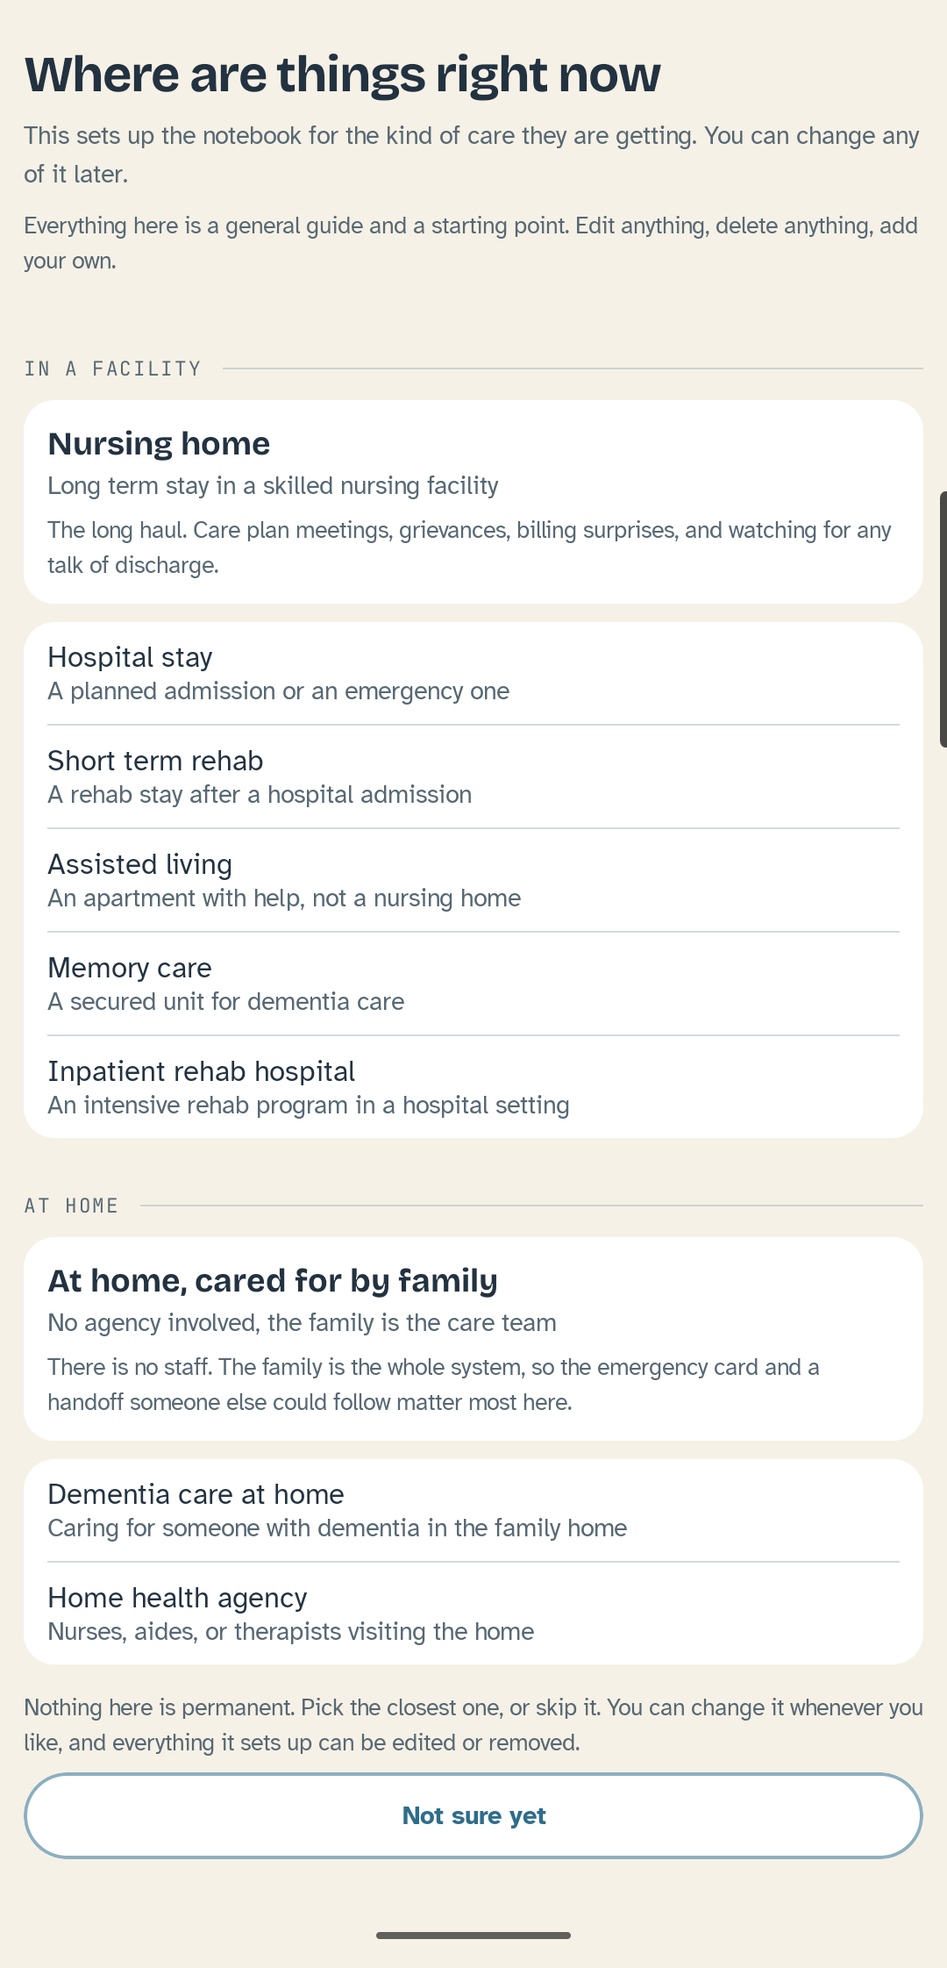
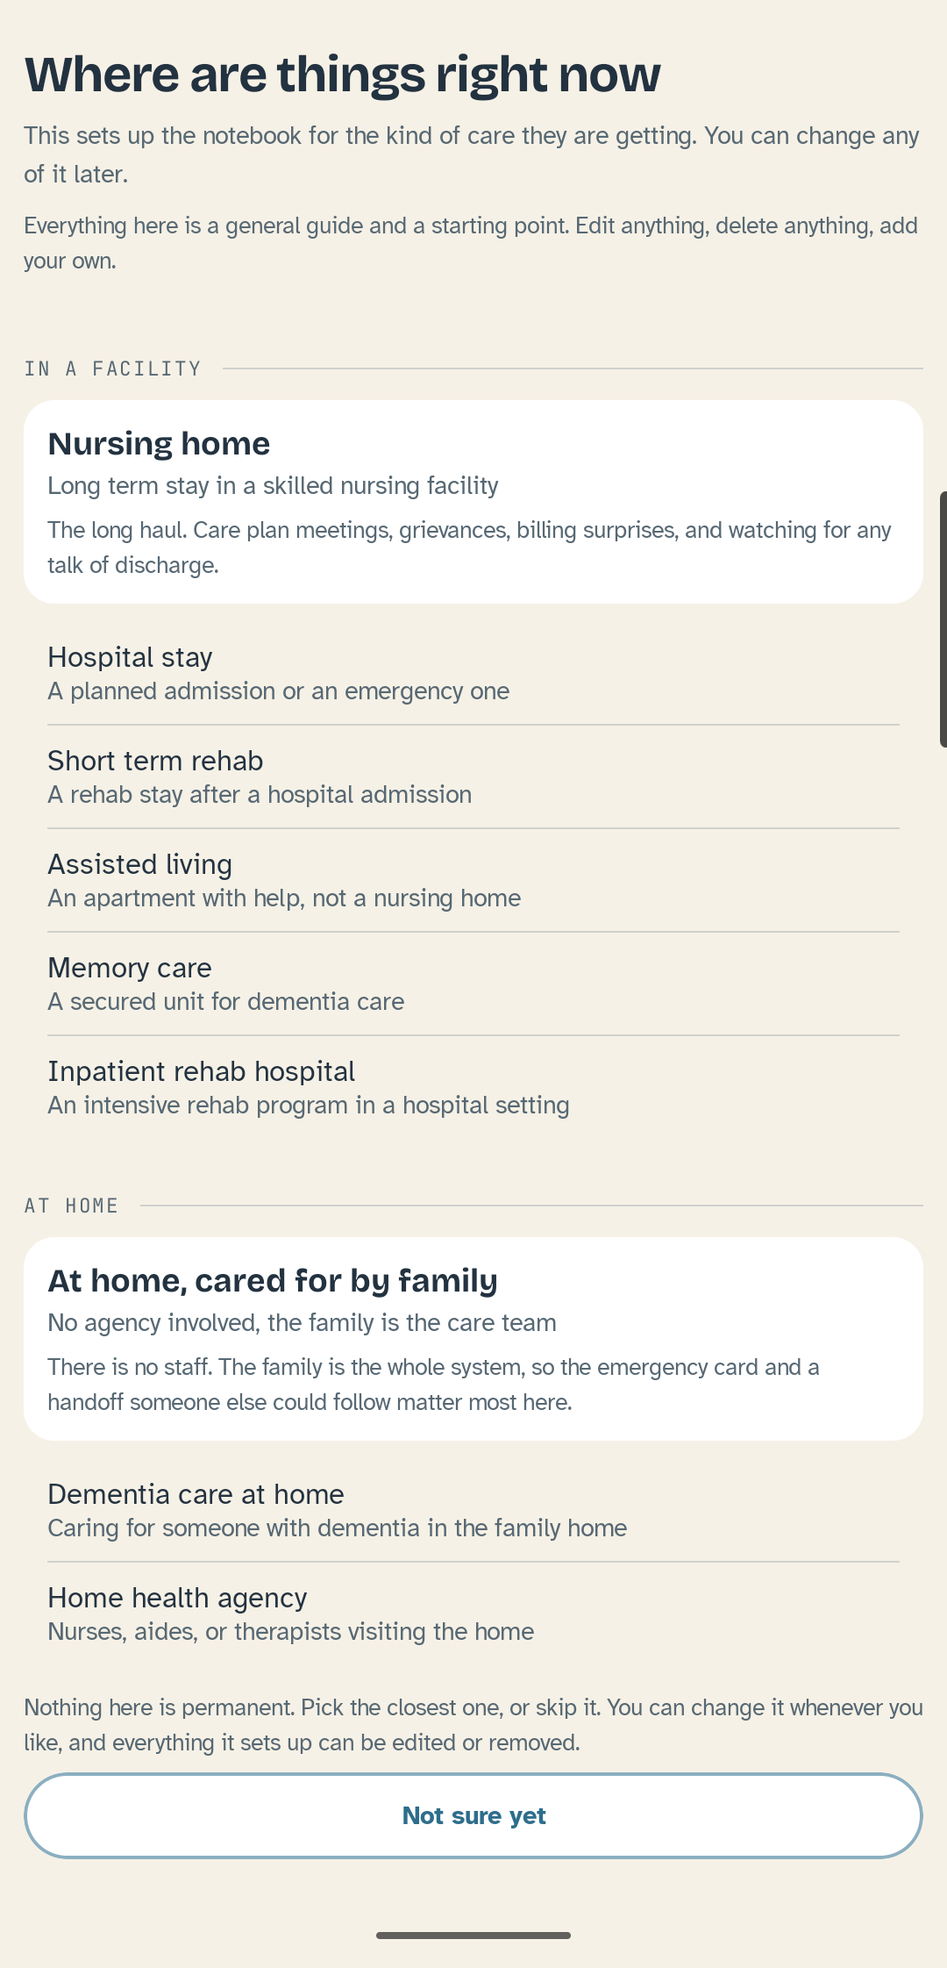
Every sentence's full stop jumped to the front of its last line in Arabic
The situation picker rendered the English catalog, which is what it is
until #62, without isolating any of it. In an Arabic layout that moves a
sentence's own punctuation to the front of the line it ends on: ".your
own" rather than "your own." on the posture line, and the same on every
burden line. Section 15's rule, and the exact failure it was written for.
#226's worklist is the rest of this.

The rows also lost their grouped surface, which is the component's own
rule rather than a compromise: not around a list long enough to scroll,
where the rows should be full bleed so the scroll is not a slab moving
under a window. Fourteen settings is that list, and the leading card
reads better floating above rows than above a second block.

That change also restored one lazy item per setting, which is what the
picker's own test needs to reach all fourteen by key. Batching a group
into one item took those keys away and broke two tests. The trap is
written down in HANDOFF section 10 and was walked into anyway.

MoveToChapterTest asserts both sides of the boundary: exactly one place
is current after a move, an already ended stay keeps the date somebody
gave it, and nothing filed against the old place is touched, which is the
promise #202 makes in its own words and the reason anybody is willing to
press the button. 332 tests pass, up from 325.

Reviews at #241 and #242 with the device screenshots.

diff --git a/android/app/src/main/kotlin/com/kamsiob/healthtrail/ui/screens/SituationPickerScreen.kt b/android/app/src/main/kotlin/com/kamsiob/healthtrail/ui/screens/SituationPickerScreen.kt
@@ -29,10 +29,10 @@ import androidx.compose.ui.platform.testTag
 import androidx.compose.ui.unit.dp
 import androidx.compose.ui.semantics.Role
 import com.kamsiob.healthtrail.data.TemplateCatalog
+import com.kamsiob.healthtrail.i18n.Bidi
 import com.kamsiob.healthtrail.i18n.LocalStrings
 import com.kamsiob.healthtrail.ui.components.DenseRow
 import com.kamsiob.healthtrail.ui.components.GroupHeader
-import com.kamsiob.healthtrail.ui.components.GroupedSurface
 import com.kamsiob.healthtrail.ui.components.TextAction
 import com.kamsiob.healthtrail.ui.components.focusRingAlpha
 import com.kamsiob.healthtrail.ui.components.pressedSurface
@@ -140,8 +140,13 @@ fun SituationPickerScreen(
             if (situations.posture.generalGuide.isNotBlank()) {
                 Spacer(Modifier.height(Space.sm))
                 // Verbatim from the catalog. Not paraphrased, not shortened.
+                // **Isolated, because the catalog is English until #62 and this
+                // is an Arabic layout.** Without it the sentence's own full
+                // stop is moved to the front of its last line: ".your own"
+                // rather than "your own.". Section 15, and it is the exact
+                // failure that rule was written for.
                 Text(
-                    text = situations.posture.generalGuide,
+                    text = Bidi.isolate(situations.posture.generalGuide),
                     style = HealthTrail.type.bodyS,
                     color = colors.ink2,
                 )
@@ -177,25 +182,36 @@ fun SituationPickerScreen(
                     // only the leading one carries a third line worth reading.
                     // The hierarchy inside each group survives, and it is now
                     // carried by shape rather than by length alone.
-                    item(key = "lead_$id") {
+                    item(key = inGroup.first().id) {
                         SituationCard(
                             situation = inGroup.first(),
                             onClick = { onChoose(inGroup.first()) },
                         )
                         Spacer(Modifier.height(Space.cardGap))
                     }
+                    // **One lazy item per setting, and no surface around the
+                    // run.** `GroupedSurface`'s own rule: not around a list long
+                    // enough to scroll, where the rows should be full bleed with
+                    // hairlines so the scroll is not a slab moving under a
+                    // window. Fourteen settings is that list.
+                    //
+                    // **It is also what makes every one of them reachable.** The
+                    // test scrolls this list by each setting's own id, which is
+                    // the only reliable way to reach a lazy row, and batching a
+                    // group into one item took those keys away. The trap is
+                    // documented in `HANDOFF.md` and it was walked into anyway.
                     val rest = inGroup.drop(1)
+                    rest.forEachIndexed { index, situation ->
+                        item(key = situation.id) {
+                            SituationRow(
+                                situation = situation,
+                                divider = index < rest.lastIndex,
+                                onClick = { onChoose(situation) },
+                            )
+                        }
+                    }
                     if (rest.isNotEmpty()) {
-                        item(key = "rest_$id") {
-                            GroupedSurface {
-                                rest.forEachIndexed { index, situation ->
-                                    SituationRow(
-                                        situation = situation,
-                                        divider = index < rest.lastIndex,
-                                        onClick = { onChoose(situation) },
-                                    )
-                                }
-                            }
+                        item(key = "rest_gap_$id") {
                             Spacer(Modifier.height(Space.cardGap))
                         }
                     }
@@ -210,17 +226,14 @@ fun SituationPickerScreen(
                 }.sortedBy { it.phase }
                 if (ungrouped.isNotEmpty()) {
                     item(key = "ungrouped_gap") { Spacer(Modifier.height(Space.sectionGap)) }
-                    item(key = "ungrouped") {
-                        GroupedSurface {
-                            ungrouped.forEachIndexed { index, situation ->
-                                SituationRow(
-                                    situation = situation,
-                                    divider = index < ungrouped.lastIndex,
-                                    onClick = { onChoose(situation) },
-                                )
-                            }
+                    ungrouped.forEachIndexed { index, situation ->
+                        item(key = situation.id) {
+                            SituationRow(
+                                situation = situation,
+                                divider = index < ungrouped.lastIndex,
+                                onClick = { onChoose(situation) },
+                            )
                         }
-                        Spacer(Modifier.height(Space.cardGap))
                     }
                 }
 
@@ -277,8 +290,8 @@ private fun SituationRow(
     onClick: () -> Unit,
 ) {
     DenseRow(
-        title = situation.name,
-        subtitle = situation.subtitle.takeIf { it.isNotBlank() },
+        title = Bidi.isolate(situation.name),
+        subtitle = situation.subtitle.takeIf { it.isNotBlank() }?.let { Bidi.isolate(it) },
         subtitleMaxLines = Int.MAX_VALUE,
         divider = divider,
         onClick = onClick,
@@ -338,14 +351,14 @@ private fun SituationCard(
             .padding(Space.cardPadding),
     ) {
         Text(
-            text = situation.name,
+            text = Bidi.isolate(situation.name),
             style = HealthTrail.type.displayS,
             color = colors.ink,
         )
         if (situation.subtitle.isNotBlank()) {
             Spacer(Modifier.height(Space.xs))
             Text(
-                text = situation.subtitle,
+                text = Bidi.isolate(situation.subtitle),
                 style = HealthTrail.type.bodyM,
                 color = colors.ink2,
             )
@@ -353,7 +366,7 @@ private fun SituationCard(
         if (situation.burden.isNotBlank() && situation.phase == MOST_COMMON) {
             Spacer(Modifier.height(Space.s))
             Text(
-                text = situation.burden,
+                text = Bidi.isolate(situation.burden),
                 style = HealthTrail.type.bodyS,
                 color = colors.ink2,
             )

diff --git a/android/app/src/androidTest/kotlin/com/kamsiob/healthtrail/data/MoveToChapterTest.kt b/android/app/src/androidTest/kotlin/com/kamsiob/healthtrail/data/MoveToChapterTest.kt
@@ -1,0 +1,118 @@
+package com.kamsiob.healthtrail.data
+
+import androidx.test.ext.junit.runners.AndroidJUnit4
+import androidx.test.platform.app.InstrumentationRegistry
+import java.time.LocalDate
+import kotlinx.coroutines.runBlocking
+import org.junit.After
+import org.junit.Assert.assertEquals
+import org.junit.Assert.assertTrue
+import org.junit.Before
+import org.junit.Test
+import org.junit.runner.RunWith
+
+/**
+ * A change of situation is a chapter boundary, and a boundary has two sides.
+ *
+ * **Starting a place without ending the one before it is the defect this
+ * exists for.** A chapter is current because it has no end date, so a second
+ * one left the chapters screen showing two places somebody was in at once,
+ * under a heading that says "where they are now". Seen on the phone.
+ *
+ * **And the other half: nothing is destroyed.** #202 promises it in those
+ * words, so it is asserted rather than trusted, because the promise is the
+ * reason somebody is willing to press the button at all.
+ */
+@RunWith(AndroidJUnit4::class)
+class MoveToChapterTest {
+
+    private val context get() = InstrumentationRegistry.getInstrumentation().targetContext
+    private lateinit var repository: Repository
+    private lateinit var subjectId: String
+
+    @Before
+    fun setUp() = runBlocking {
+        repository = Repository.open(context)
+        subjectId = repository.createSubject(displayName = "Move fixture", relationship = "mother")
+    }
+
+    @After
+    fun tearDown() = Repository.closeForTest()
+
+    private fun chapters() = runBlocking { repository.chapters(subjectId) }
+
+    @Test
+    fun theOldPlaceEndsAndTheNewOneBegins() = runBlocking {
+        repository.createChapter(subjectId, "Maplewood Care Center")
+        repository.moveToChapter(subjectId, "Birchwood Assisted Living")
+
+        val all = chapters()
+        assertEquals(2, all.size)
+        val current = all.filter { it.isCurrent }
+        assertEquals(
+            "exactly one place is current after a move: ${current.map { it.name }}",
+            listOf("Birchwood Assisted Living"),
+            current.map { it.name },
+        )
+    }
+
+    @Test
+    fun theOldPlaceKeepsItsNameAndItsStartDate() = runBlocking {
+        repository.createChapter(subjectId, "Maplewood Care Center")
+        val startedBefore = chapters().single().startedEdtf
+        repository.moveToChapter(subjectId, "Birchwood Assisted Living")
+
+        val old = chapters().single { it.name == "Maplewood Care Center" }
+        assertEquals("the stay was rewritten rather than closed", startedBefore, old.startedEdtf)
+        assertEquals(LocalDate.now().toString(), old.endedEdtf)
+    }
+
+    @Test
+    fun nothingFiledAgainstTheOldPlaceIsTouched() = runBlocking {
+        // The promise #202 makes in its own words, and the reason somebody is
+        // willing to press the button. Asserted rather than trusted.
+        val oldId = repository.createChapter(subjectId, "Maplewood Care Center")
+        val before = repository.chapterDetail(subjectId, oldId)
+
+        repository.moveToChapter(subjectId, "Birchwood Assisted Living")
+
+        val after = repository.chapterDetail(subjectId, oldId)
+        assertTrue("the old chapter itself was removed", after != null)
+        assertEquals(before?.entries?.size, after?.entries?.size)
+        assertEquals(before?.incidents?.size, after?.incidents?.size)
+        assertEquals(before?.documents?.size, after?.documents?.size)
+        assertEquals(before?.milestones?.size, after?.milestones?.size)
+    }
+
+    @Test
+    fun aPlaceSomebodyAlreadyClosedKeepsTheDateTheyGaveIt() = runBlocking {
+        // Only the open ones are ended. A stay closed by hand at some earlier
+        // date must not be silently restamped with today's.
+        repository.createChapter(subjectId, "First place")
+        repository.moveToChapter(subjectId, "Second place")
+        val firstEnded = chapters().single { it.name == "First place" }.endedEdtf
+
+        repository.moveToChapter(subjectId, "Third place")
+
+        assertEquals(
+            "an already ended stay was restamped",
+            firstEnded,
+            chapters().single { it.name == "First place" }.endedEdtf,
+        )
+        assertEquals(
+            listOf("Third place"),
+            chapters().filter { it.isCurrent }.map { it.name },
+        )
+    }
+
+    @Test
+    fun movingWithNoPlaceRecordedYetJustStartsOne() = runBlocking {
+        // Setup can be skipped, so a notebook may have no chapter at all. That
+        // is not an error and the move is not blocked by it.
+        repository.moveToChapter(subjectId, "The first place anybody wrote down")
+        assertEquals(
+            listOf("The first place anybody wrote down"),
+            chapters().filter { it.isCurrent }.map { it.name },
+        )
+    }
+}

diff --git a/android/app/src/androidTest/kotlin/com/kamsiob/healthtrail/ui/ScreenReaderTest.kt b/android/app/src/androidTest/kotlin/com/kamsiob/healthtrail/ui/ScreenReaderTest.kt
@@ -20,6 +20,7 @@ import com.kamsiob.healthtrail.ui.components.BottomNav
 import com.kamsiob.healthtrail.ui.components.CaptureFab
 import com.kamsiob.healthtrail.ui.components.Destination
 import com.kamsiob.healthtrail.ui.screens.AboutScreen
+import com.kamsiob.healthtrail.ui.screens.ChangeSituationScreen
 import com.kamsiob.healthtrail.ui.screens.MilestonesScreen
 import com.kamsiob.healthtrail.ui.screens.TemplateLibraryScreen
 import com.kamsiob.healthtrail.ui.screens.MonthReviewScreen
@@ -627,6 +628,44 @@ class ScreenReaderTest {
             )
         }
         assertEverythingIsLabeled("the milestone arc")
+    }
+
+    /**
+     * How the notebook is set up, in both states: before a different setting is
+     * picked, and after, when the chapter field and the filled action appear.
+     */
+    @Test
+    fun changingHowTheNotebookIsSetUpLabelsEverything() {
+        val situations = runBlocking { TemplateCatalog.situations(context) }
+        compose.show {
+            ChangeSituationScreen(
+                current = situations.all.first(),
+                chosen = situations.all.last(),
+                onOpenPicker = {},
+                onApply = {},
+                onBack = {},
+            )
+        }
+        assertEverythingIsLabeled("changing how the notebook is set up")
+    }
+
+    /**
+     * The same screen before anybody has opened the picker, which is the state
+     * most people meet: they came to check which setting they picked.
+     */
+    @Test
+    fun howTheNotebookIsSetUpLabelsEverythingBeforeAnyChange() {
+        val situations = runBlocking { TemplateCatalog.situations(context) }
+        compose.show {
+            ChangeSituationScreen(
+                current = situations.all.first(),
+                chosen = null,
+                onOpenPicker = {},
+                onApply = {},
+                onBack = {},
+            )
+        }
+        assertEverythingIsLabeled("how the notebook is set up")
     }
 
     /**

diff --git a/HANDOFF.md b/HANDOFF.md
@@ -15,12 +15,12 @@ Everything below is verified rather than asserted, as of 2026-08-04:
 - The working tree is clean and everything is on `origin/main`. **Check it rather than trusting this line**: `git status --porcelain` and `git log --oneline -5`.
 - **17 repository checks pass** (`python3 tools/checks/run_all.py`).
 - **Continuous integration is green on `main`.** It had been **red for three commits**, from `050ac27` to `b40e6ac`, and nothing said so: the last green before that was `c99bff5`. **Check it after every push**, `gh run list --branch main --limit 3`, because the tree being clean and the checks passing tell you nothing about it.
-- **325 instrumented tests pass**, last full run 2026-08-04 after #201 landed.
+- **332 instrumented tests pass**, last full run 2026-08-04 after #202 landed.
 - The phone was left with the month six fixture, font scale 1.0, night mode off, and the per-app locale at the system default. **It has been unplugged since**, so confirm it is attached before planning any device work: `adb devices`.
 
 **Take these in this order.**
 
-1. **#200 and #201 are done and closed**, and sections 3 and 4 say what came out of them. **#202 is in flight and section 2 says what is left: the sweep, the tests, and two review issues.**
+1. **#200, #201 and #202 are done and closed**, and sections 2 to 4 say what came out of them.
 2. **The rest of step 4**, #201 through #208, in number order, **except take #208 last**. Each was scoped on 2026-08-04 and the two with gaps carry a comment saying so:
    - **#202** is half a conversion and half a build. "Change of situation" does not exist anywhere, and whoever takes it has to decide first whether changing the situation is a chapter boundary in the data or only in the words.
    - **#208**, the family update draft, does not exist at all and is Phase 5 work sitting in a step 4 list. Everything it needs is built: `Readable.kt` composes from real rows and `Share.kt` hands a document to the system sheet. Read `PrepScreen.kt` first; it is the same shape.
@@ -33,15 +33,21 @@ Everything below is verified rather than asserted, as of 2026-08-04:
 
 ---
 
-## 2. #202 is in flight
+## 2. What #202 landed
 
-**Both halves are built and used on the phone in light.** What is left is the sweep at dark, font scale 2.0 and Arabic, the instrumented tests, and the two review issues.
+**Both halves are built, swept, tested and closed.** Both themes, font scale 2.0, and Arabic, on the phone. Reviews at **#241** and **#242**, and `DESIGN.md` section 14 carries both rows.
 
 **The picker is converted**: the setting each group leads with keeps its card and its burden line, and the rest are dense rows in a grouped surface. Fourteen cards was three and a half screenfuls on the first screen after the disclaimer.
 
 **Change of situation is new and it had no door at all.** The picker ran once during setup and was then unreachable forever, so a family whose care moved could not tell the app and could not even see which setting they had. It is now a destination in More. The screen states the boundary plainly and offers a chapter, and **the boundary is made rather than only stated**: `moveToChapter` ends the open chapter today and starts the new one today, because starting a second without ending the first left two places somebody was in at once.
 
 **Two things it said that were not true, both found by looking at it:** "Right now" showed the setting the person had just picked, before anything was written, and the chapter field carried a mono header saying the same three words as its own label.
+
+**The picker's rows lost their grouped surface, and that was the component's own rule rather than a compromise.** Section 7: not around a list long enough to scroll, where the rows should be full bleed so the scroll is not a slab moving under a window. It also restored **one lazy item per setting**, which is what the picker's test needs to reach all fourteen by key, and batching a group into one item had broken exactly that. The trap is in section 10 of this file and was walked into anyway.
+
+**The English catalog reordered itself in Arabic**, on a screen nobody had isolated: every sentence's full stop jumped to the front of its last line, ".your own" rather than "your own.". Fixed on the picker. **#226's worklist is the rest of this**, and it is worth taking seriously.
+
+**332 instrumented tests pass**, up from 325. **One flake seen once and not since**: `RoundTripTest.unknownSurvivesAsUnknownRatherThanAsNullOrToday` failed with "attempt to write a readonly database" inside `Backup.recomputeRanges`, then passed on the next run with no change. Not investigated, and recorded here rather than forgotten.
 
 **A missing catalog key crashed the app on opening**, and nothing caught it: the four catalogs agreed with each other, seventeen checks passed, the Kotlin compiled and lint was clean, because nothing compared the literals in the code against the catalog. **`check_string_keys.py` now does**, and it was proved against the real crash rather than assumed.
 

diff --git a/DESIGN.md b/DESIGN.md
@@ -588,8 +588,8 @@ Every screen the app needs that the grid does not draw, and the drawn screen it 
 | Import and restore | 07 Filing | Show what the file holds before writing anything |
 | The disclaimer gate | 05 Capture stage 1 | One question, one action, nothing else reachable |
 | Setup | 05 Capture stage 1 | Staged conversation, skip always visible |
-| The situation picker | 23 Track something new | Grouped and searchable, one tap to choose |
-| Change of situation | 19 Chapters | A chapter boundary, stated plainly |
+| The situation picker | 23 Track something new | Grouped and searchable, one tap to choose. **Converted 2026-08-04**, #202. The setting each group leads with keeps its card and its burden line; the rest are dense rows on paper. **No surface around the run**, per section 7's own rule about a list long enough to scroll, and **one lazy item per setting**, because the picker's test reaches every one of the fourteen by its own key and batching a group took those keys away. **No search and no folds**: fourteen rows is under two screenfuls, and this is the first screen after the disclaimer, where hiding an option behind a tap is the opposite of what it is for. Review at #242 |
+| Change of situation | 19 Chapters | A chapter boundary, stated plainly. **Built 2026-08-04**, #202, and it had no door at all: the picker ran once during setup and was then unreachable, against law 5's promise that all of it is changeable afterward from one screen. It is a destination in More now. **The boundary is made rather than only stated**: `moveToChapter` ends the open chapter today and starts the new one today, because starting a second without ending the first left two places somebody was in at once. The chapter is offered and never made for them. Review at #241 |
 | More | 03 Notebook | Destinations, so tiles and folds |
 | Appearance and settings | 03 Notebook | Destinations and toggles, grouped |
 | About | 09 One entry | Bare information, one door out |
